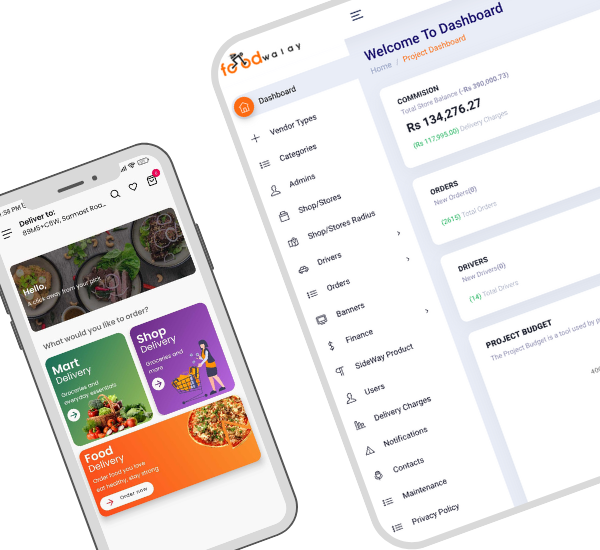
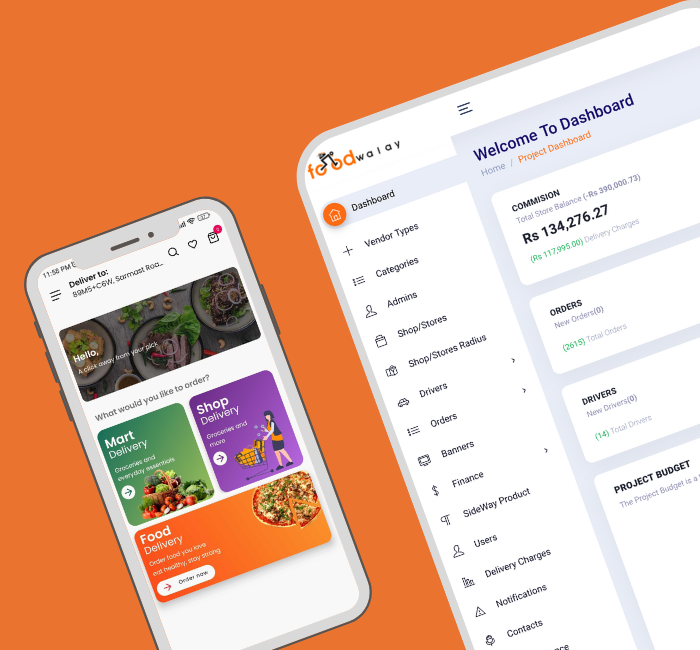
fix

diff --git a/index.html b/index.html
@@ -172,14 +172,14 @@
                         </div>
                     </div>
 
-                    <img src="assets/images/app-mockup.png" alt="" />
+                    <img src="assets/images/client-mockup.png" alt="" />
                 </div>
             </div>
         </div>
     </section>
 
 
-    <section class="next-clients">
+    <!-- <section class="next-clients">
         <div class="container">
             <div class="next-heading-snippet text-center">
                 <h2 class="text-center">Some of our recent Accomplishments</h2>
@@ -223,111 +223,113 @@
             </div>
         </div>
 
-        <footer class="footer">
+        
+    </section> -->
+
+    <footer class="footer">
+        <div class="container">
+            <div class="next-heading-snippet color-white">
+                <div class="row justify-content-space-between align-items-center">
+                    <div class="col-md-5">
+                        <h2>Interested in Collaboration?</h2>
+                        <h5>Interested in Collaboration?
+                            Challenge us. We want to work with you to create the really cool stuff.</h5>
+                    </div>
+                    <div class="col-md-4">
+                        <a class="next-btn dark" href="#">
+                            Let’s Talk
+                        </a>
+                    </div>
+                </div>
+            </div>
+        </div>
+        <div class="foot-divider"></div>
+        <div class="foot-bottom-holder">
             <div class="container">
-                <div class="next-heading-snippet color-white">
-                    <div class="row justify-content-space-between align-items-center">
-                        <div class="col-md-5">
-                            <h2>Interested in Collaboration?</h2>
-                            <h5>Interested in Collaboration?
-                                Challenge us. We want to work with you to create the really cool stuff.</h5>
-                        </div>
-                        <div class="col-md-4">
-                            <a class="next-btn dark" href="#">
-                                Let’s Talk
-                            </a>
-                        </div>
+                <div class="row">
+                    <div class="col-md-4">
+                        <img src="assets/images/logo.png" alt="" />
+                        <ul>
+                            <li>
+                                <span>A.</span>
+                                <p>office #10 floor 6 Salman icon Tower Autobhan.</p>
+                            </li>
+                            <li>
+                                <span>T.</span>
+                                <a href="tel:+92 344 4519903">+92 344 4519903</a>
+                            </li>
+                            <li>
+                                <span>E.</span>
+                                <a href="mailto:info@nextapp.is">info@nextapp.is</a>
+                            </li>
+                        </ul>
+                    </div>
+                    <div class="col-md-3">
+                        <h4>ABOUT US
+                        </h4>
+                        <ul>
+                            <li>
+                                <a href="#">About
+                                </a>
+                            </li>
+                            <li>
+                                <a href="#">Projects
+                                </a>
+                            </li>
+                            <li>
+                                <a href="#">What We Do
+                                </a>
+                            </li>
+                            <li>
+                                <a href="#">How We Collaborate with Startups
+                                </a>
+                            </li>
+                        </ul>
+                    </div>
+                    <div class="col-md-3">
+                        <h4>FOLLOW US
+                        </h4>
+                        <ul>
+                            <li>
+                                <a href="#">Facebook
+                                </a>
+                            </li>
+                            <li>
+                                <a href="#">Instagram
+                                </a>
+                            </li>
+                            <li>
+                                <a href="#">Dribble
+                                </a>
+                            </li>
+                            <li>
+                                <a href="#">Behance
+                                </a>
+                            </li>
+                        </ul>
+                    </div>
+                    <div class="col-md-2">
+                        <h4>OUR PRODUCT
+                        </h4>
+                        <ul>
+                            <li>
+                                <a href="#">
+                                    Iconspace
+                                </a>
+                            </li>
+                            <li>
+                                <a href="#">
+                        
+                                    Illustration Library
+                                </a>
+                            </li>
+                        </ul>
                     </div>
                 </div>
+                <div class="next-copy-right">2022 © NextApp. All rights reserved.</div>
             </div>
-            <div class="foot-divider"></div>
-            <div class="foot-bottom-holder">
-                <div class="container">
-                    <div class="row">
-                        <div class="col-md-4">
-                            <img src="assets/images/logo.png" alt="" />
-                            <ul>
-                                <li>
-                                    <span>A.</span>
-                                    <p>office #10 floor 6 Salman icon Tower Autobhan.</p>
-                                </li>
-                                <li>
-                                    <span>T.</span>
-                                    <a href="tel:+92 344 4519903">+92 344 4519903</a>
-                                </li>
-                                <li>
-                                    <span>E.</span>
-                                    <a href="mailto:info@nextapp.is">info@nextapp.is</a>
-                                </li>
-                            </ul>
-                        </div>
-                        <div class="col-md-3">
-                            <h4>ABOUT US
-                            </h4>
-                            <ul>
-                                <li>
-                                    <a href="#">About
-                                    </a>
-                                </li>
-                                <li>
-                                    <a href="#">Projects
-                                    </a>
-                                </li>
-                                <li>
-                                    <a href="#">What We Do
-                                    </a>
-                                </li>
-                                <li>
-                                    <a href="#">How We Collaborate with Startups
-                                    </a>
-                                </li>
-                            </ul>
-                        </div>
-                        <div class="col-md-3">
-                            <h4>FOLLOW US
-                            </h4>
-                            <ul>
-                                <li>
-                                    <a href="#">Facebook
-                                    </a>
-                                </li>
-                                <li>
-                                    <a href="#">Instagram
-                                    </a>
-                                </li>
-                                <li>
-                                    <a href="#">Dribble
-                                    </a>
-                                </li>
-                                <li>
-                                    <a href="#">Behance
-                                    </a>
-                                </li>
-                            </ul>
-                        </div>
-                        <div class="col-md-2">
-                            <h4>OUR PRODUCT
-                            </h4>
-                            <ul>
-                                <li>
-                                    <a href="#">
-                                        Iconspace
-                                    </a>
-                                </li>
-                                <li>
-                                    <a href="#">
-                            
-                                        Illustration Library
-                                    </a>
-                                </li>
-                            </ul>
-                        </div>
-                    </div>
-                    <div class="next-copy-right">2022 © NextApp. All rights reserved.</div>
-                </div>
-            </div>
-        </footer>
-    </section>
+        </div>
+    </footer>
 
 
 

diff --git a/assets/css/style.css b/assets/css/style.css
@@ -339,10 +339,10 @@ clip-path: polygon(0 0, 100% 0%, 78% 100%, 0 100%);
 .next-proces-box img{
     width: 100%;
     object-fit: contain;
-    margin-top: 80px;
+    margin-top: 40px;
 }
 .next-process-row .next-proces-box:first-child{
-    background: #fcb737;
+    background:#ea7330;
     color: white;
 }
 .next-process-row .next-proces-box:nth-child(2){
